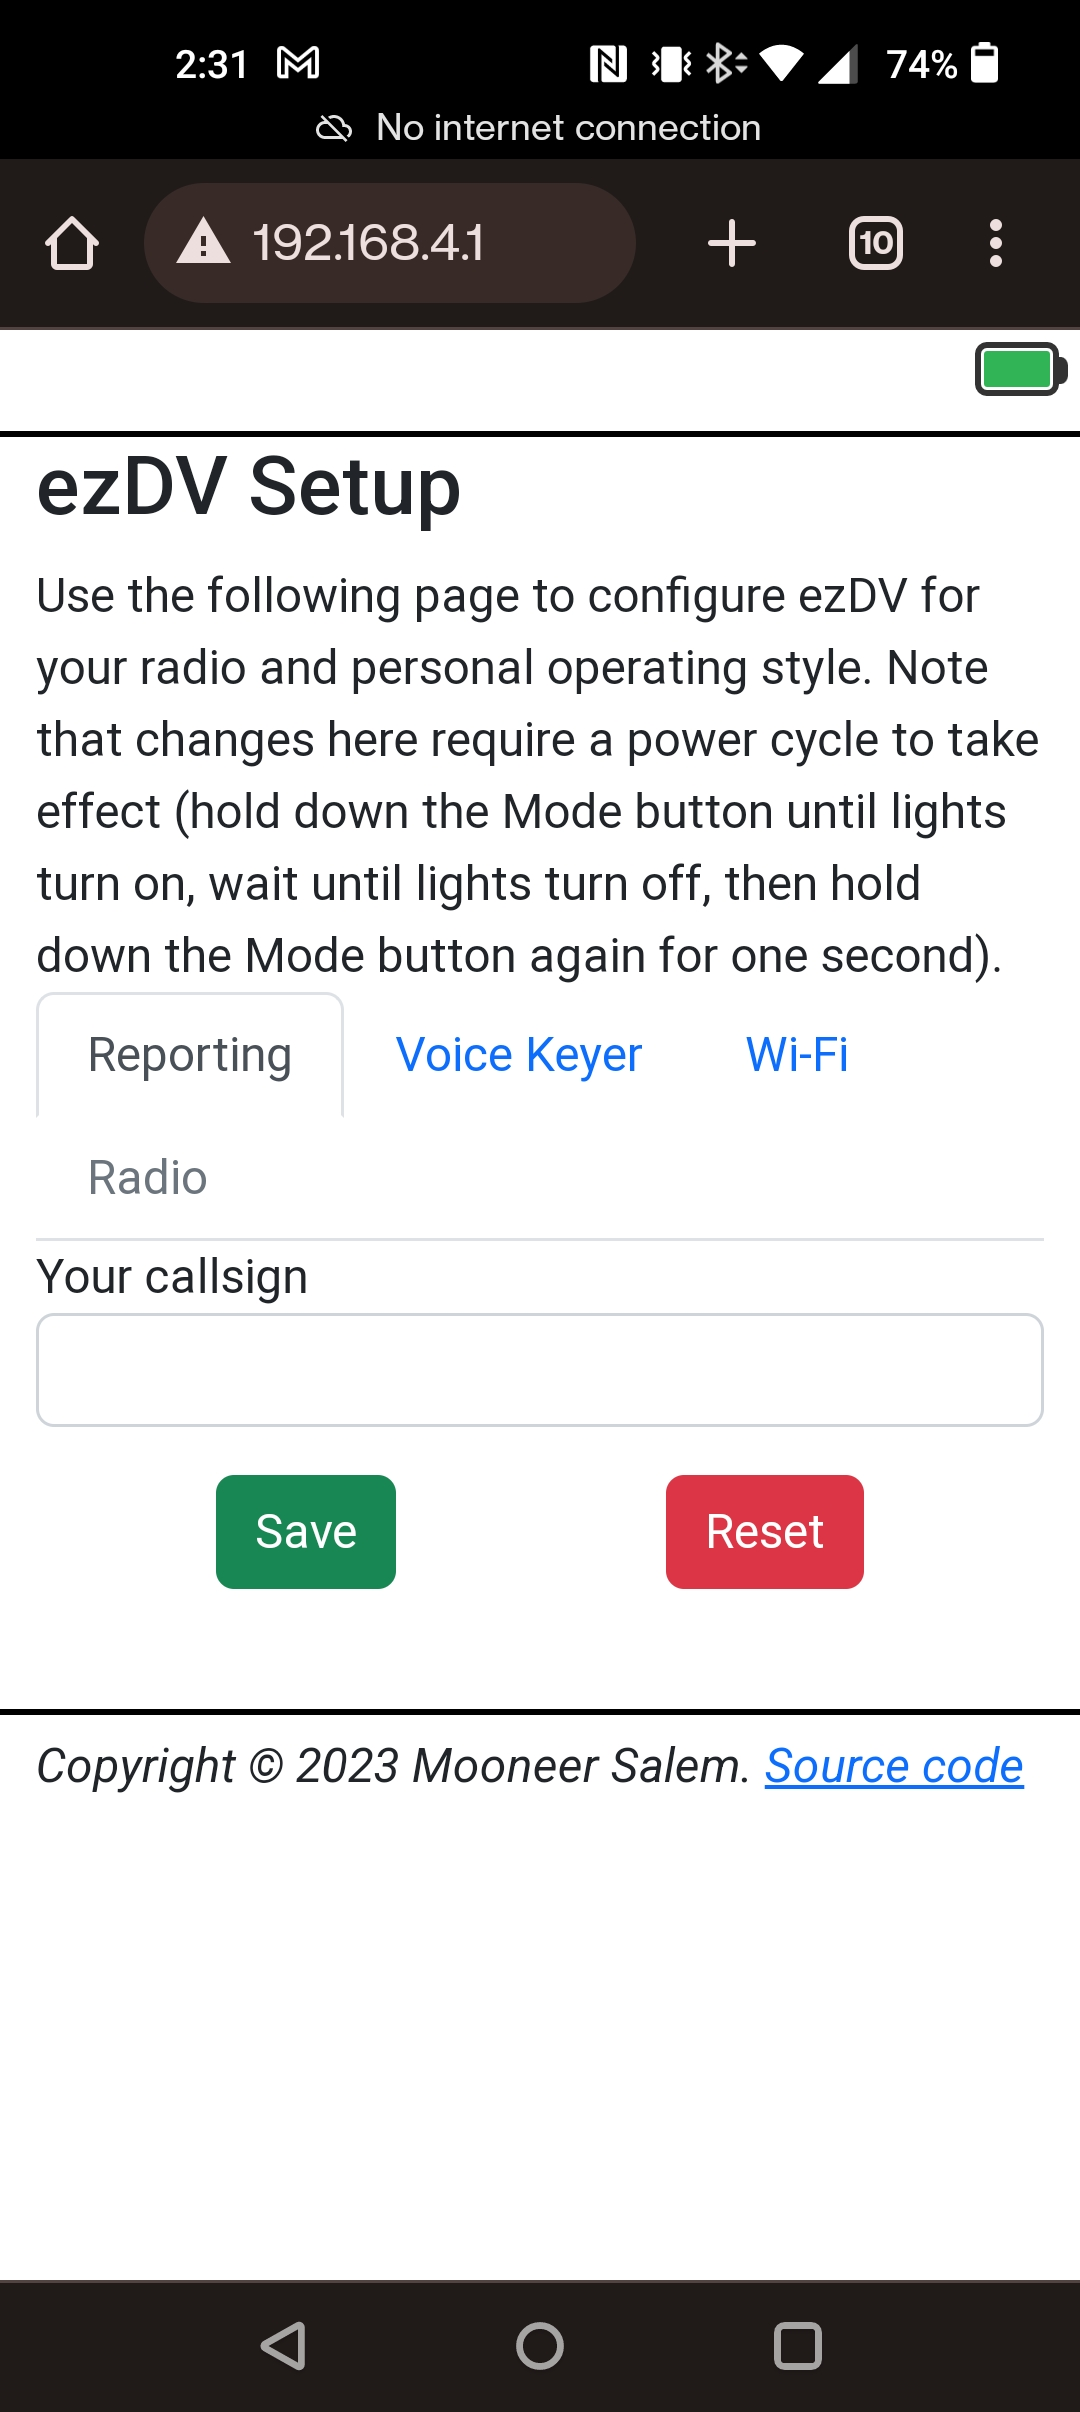
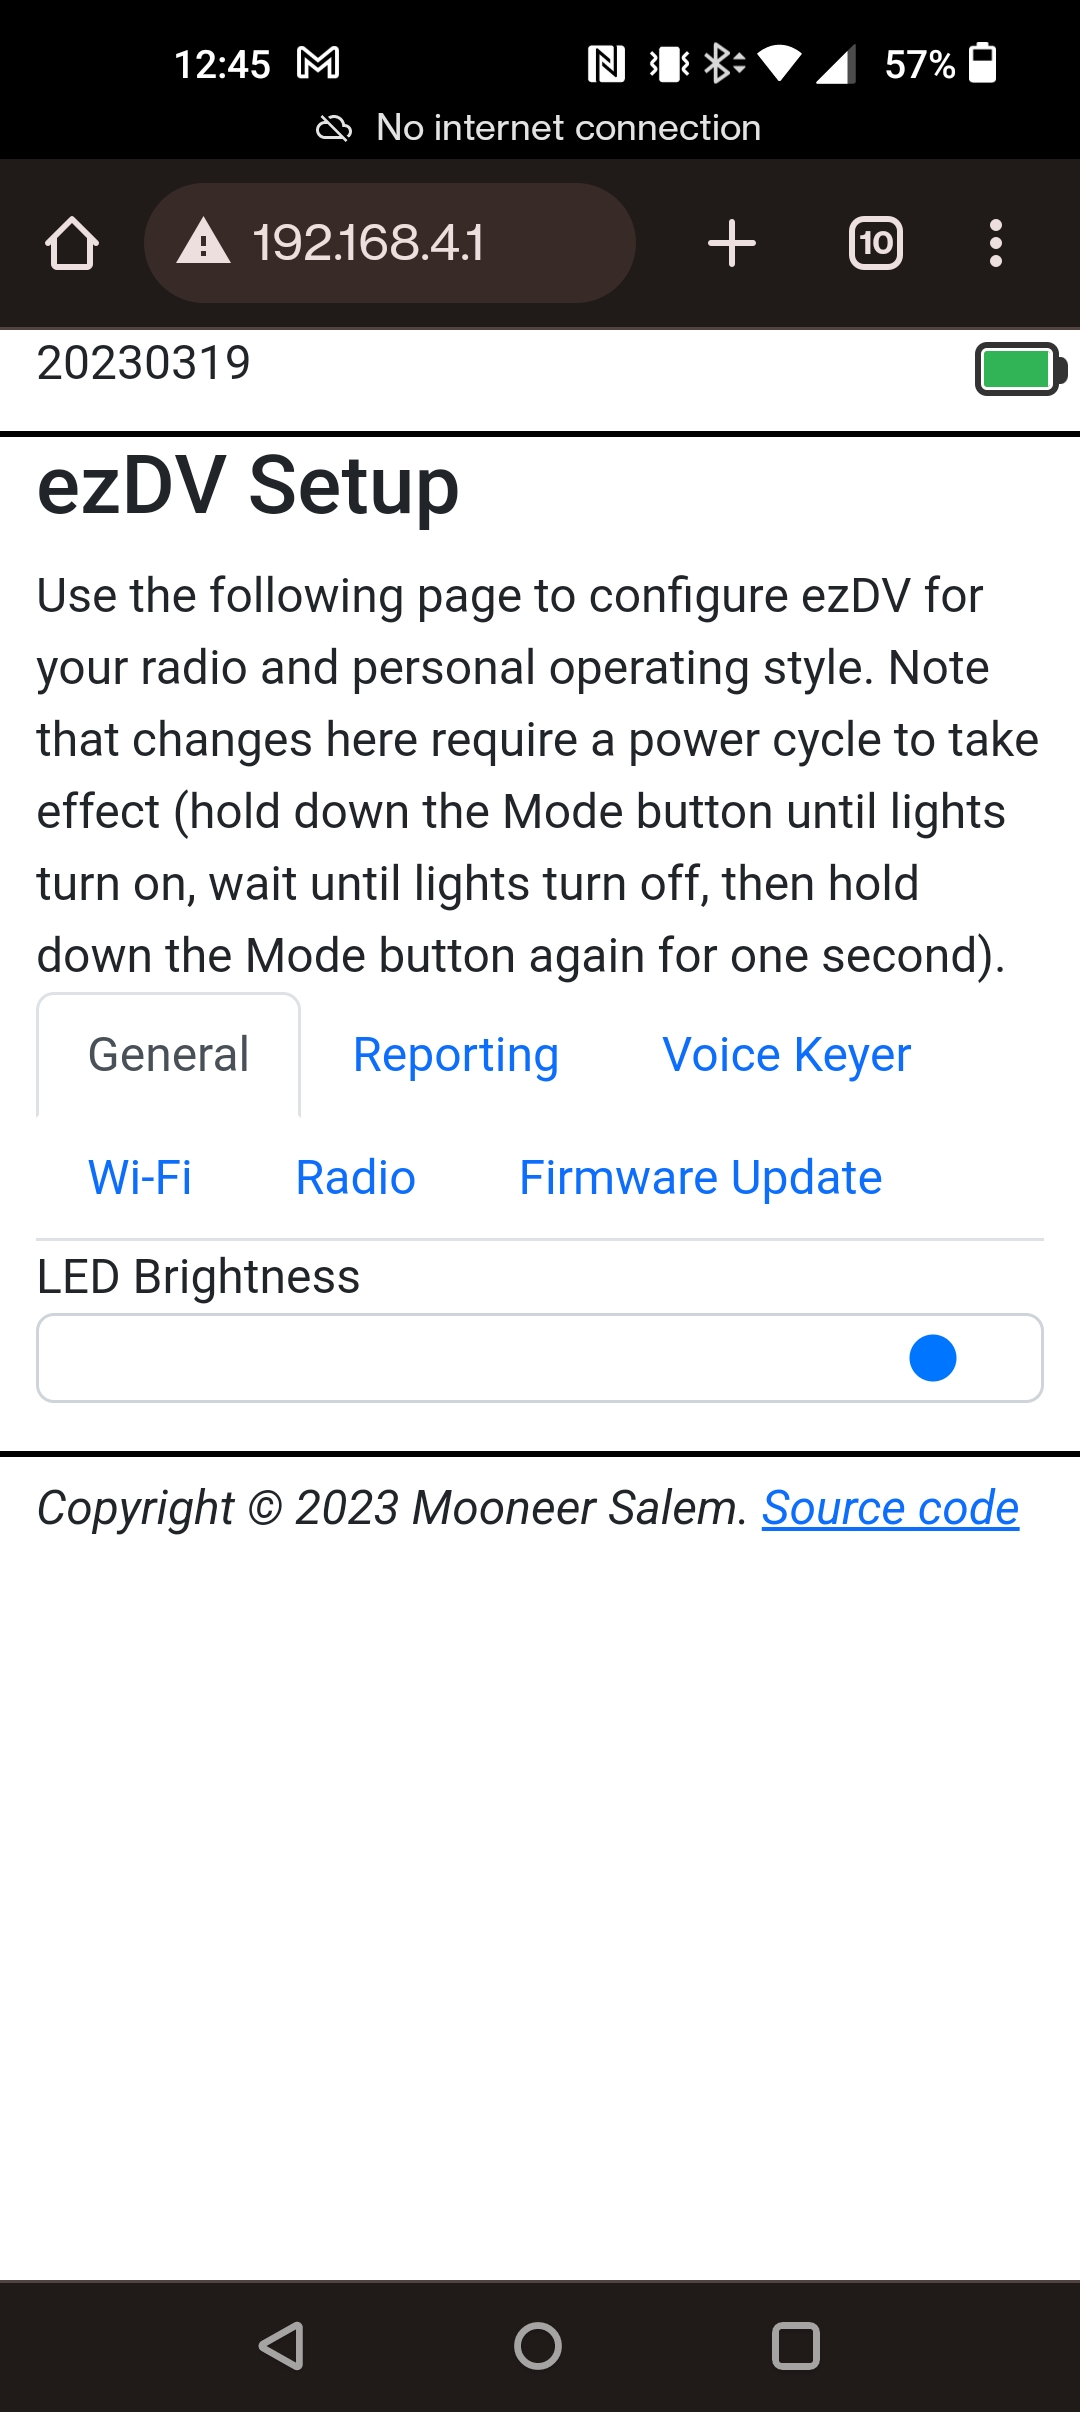
More manual updates to reflect current web configuration interface.

diff --git a/README.md b/README.md
@@ -127,6 +127,10 @@ You can also use [esptool](https://github.com/espressif/esptool). For example:
 esptool esp32s3 -p /dev/cu.usbmodem14101 -b 460800 --before=default_reset --after=hard_reset write_flash --flash_mode dio --flash_freq 80m --flash_size detect 0x0 bootloader.bin 0x20000 ezdv.bin 0x8000 partition_table/partition-table.bin 0xf000 ota_data_initial.bin 0x7f8000 http_0.bin
 ```
 
+### Using the Wi-Fi interface
+
+You can also update the firmware wirelessly. See "Web based configuration" below for info.
+
 ## Using ezDV
 
 ezDV has four buttons on the left, in order from top to bottom:
@@ -176,18 +180,26 @@ the below:
 
 From here, you can choose one of four tabs:
 
+* General: Contains miscallenous ezDV configuration options.
 * Reporting: Configures your callsign (to be encoded in FreeDV transmissions for reporting to [PSK Reporter](https://pskreporter.info/)).
 * Voice Keyer: Configures ezDV's voice keyer feature.
 * Wi-Fi: Configures how ezDV connects to Wi-Fi.
 * Radio: Configures how ezDV connects to your network-enabled radio.
+* Firmware Update: Allows the user to perform a firmware update on ezDV.
 
 Note that most changes here will require a power cycle in order to take effect.
+
+### General
+
+Currently, this tab allows the user to adjust the brightness on the LEDs on the front of ezDV.
 
 ### Reporting
 
 For PSK Reporter functionality, there is only one field here: your callsign. (ezDV does not report to PSK Reporter
 itself due to it being intended for use in environments without reliable internet access.) Leaving this field blank
-will transmit no callsign when using one of the FreeDV modes.
+will transmit no callsign when using one of the FreeDV modes:
+
+![Reporting tab for ezDV](docs/ezDV_Reporting.jpg)
 
 ### Voice Keyer
 
@@ -229,6 +241,12 @@ The fields to configure here are as follows:
 * "Port": the port to connect to on the radio. This is typically 50001 if using the IC-705.
 * "Username": the username to use to connect to the radio.
 * "Password" the password to use to connect to the radio.
+
+### Firmware Update
+
+This tab allows you to flash new firmware to the ezDV board. Simply provide a .tar.gz file containing ezdv.bin and http.bin files from the desired version and click on the "Update" button. If successful, turning ezDV off and on again will cause the new firmware to take effect:
+
+![Reporting tab for ezDV](docs/ezDV_Firmware_Update.jpg)
 
 ## Hardware Test Mode
 
